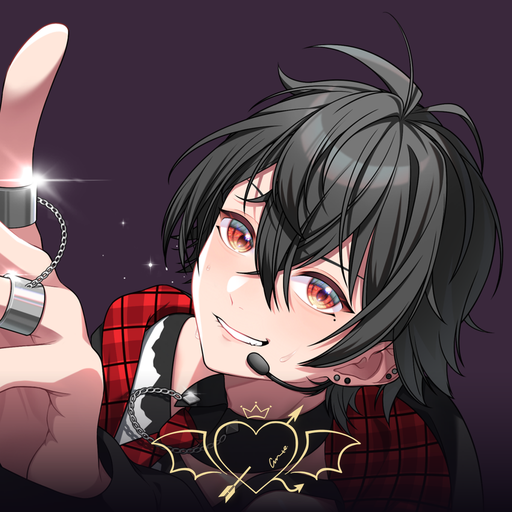
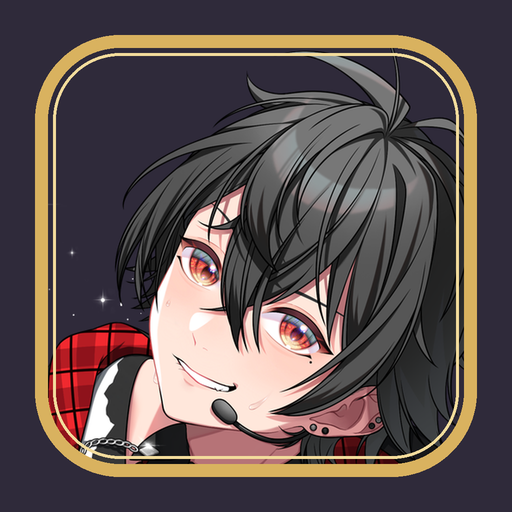
アイコンを金フレーム版に戻し、枠を丸角二重線で整える
Claude-Session: https://claude.ai/code/session_01Q8hdMR51joEyXxJTgwJaSg

diff --git a/404.html b/404.html
@@ -27,13 +27,13 @@
 <link rel="preconnect" href="https://fonts.gstatic.com" crossorigin>
 <link href="https://fonts.googleapis.com/css2?family=Dela+Gothic+One&family=M+PLUS+Rounded+1c:wght@500;700;800&family=Cinzel+Decorative:wght@700&display=swap" rel="stylesheet">
 <script>try{if(sessionStorage.getItem('ptin')==='1')document.documentElement.classList.add('pt-in')}catch(e){}</script>
-<link rel="stylesheet" href="assets/site.css?v=20261014v">
+<link rel="stylesheet" href="assets/site.css?v=20261014w">
 </head>
 <body data-page="nf">
 
 <main id="main"><div class="pg"><div class="pghead"><div class="h"><small>404</small><h1>ページが見つかりません</h1></div></div>
 <div class="card" style="text-align:center"><p style="margin-bottom:14px">矢が外れちゃったみたい。ホームに戻ろう♡</p><a class="btn" href="index.html">ホームへ</a></div></div></main>
 
-<script src="assets/site.js?v=20261014v" defer></script>
+<script src="assets/site.js?v=20261014w" defer></script>
 </body>
 </html>

diff --git a/profile.html b/profile.html
@@ -27,7 +27,7 @@
 <link rel="preconnect" href="https://fonts.gstatic.com" crossorigin>
 <link href="https://fonts.googleapis.com/css2?family=Dela+Gothic+One&family=M+PLUS+Rounded+1c:wght@500;700;800&family=Cinzel+Decorative:wght@700&display=swap" rel="stylesheet">
 <script>try{if(sessionStorage.getItem('ptin')==='1')document.documentElement.classList.add('pt-in')}catch(e){}</script>
-<link rel="stylesheet" href="assets/site.css?v=20261014v">
+<link rel="stylesheet" href="assets/site.css?v=20261014w">
 </head>
 <body data-page="profile">
 
@@ -64,6 +64,6 @@
   </section>
 </div></main>
 
-<script src="assets/site.js?v=20261014v" defer></script>
+<script src="assets/site.js?v=20261014w" defer></script>
 </body>
 </html>

diff --git a/news.html b/news.html
@@ -27,7 +27,7 @@
 <link rel="preconnect" href="https://fonts.gstatic.com" crossorigin>
 <link href="https://fonts.googleapis.com/css2?family=Dela+Gothic+One&family=M+PLUS+Rounded+1c:wght@500;700;800&family=Cinzel+Decorative:wght@700&display=swap" rel="stylesheet">
 <script>try{if(sessionStorage.getItem('ptin')==='1')document.documentElement.classList.add('pt-in')}catch(e){}</script>
-<link rel="stylesheet" href="assets/site.css?v=20261014v">
+<link rel="stylesheet" href="assets/site.css?v=20261014w">
 </head>
 <body data-page="news">
 
@@ -51,6 +51,6 @@
   </section>
 </div></main>
 
-<script src="assets/site.js?v=20261014v" defer></script>
+<script src="assets/site.js?v=20261014w" defer></script>
 </body>
 </html>

diff --git a/schedule.html b/schedule.html
@@ -27,7 +27,7 @@
 <link rel="preconnect" href="https://fonts.gstatic.com" crossorigin>
 <link href="https://fonts.googleapis.com/css2?family=Dela+Gothic+One&family=M+PLUS+Rounded+1c:wght@500;700;800&family=Cinzel+Decorative:wght@700&display=swap" rel="stylesheet">
 <script>try{if(sessionStorage.getItem('ptin')==='1')document.documentElement.classList.add('pt-in')}catch(e){}</script>
-<link rel="stylesheet" href="assets/site.css?v=20261014v">
+<link rel="stylesheet" href="assets/site.css?v=20261014w">
 </head>
 <body data-page="schedule">
 
@@ -43,6 +43,6 @@
   </div>
 </div></main>
 
-<script src="assets/site.js?v=20261014v" defer></script>
+<script src="assets/site.js?v=20261014w" defer></script>
 </body>
 </html>

diff --git a/songs.html b/songs.html
@@ -27,7 +27,7 @@
 <link rel="preconnect" href="https://fonts.gstatic.com" crossorigin>
 <link href="https://fonts.googleapis.com/css2?family=Dela+Gothic+One&family=M+PLUS+Rounded+1c:wght@500;700;800&family=Cinzel+Decorative:wght@700&display=swap" rel="stylesheet">
 <script>try{if(sessionStorage.getItem('ptin')==='1')document.documentElement.classList.add('pt-in')}catch(e){}</script>
-<link rel="stylesheet" href="assets/site.css?v=20261014v">
+<link rel="stylesheet" href="assets/site.css?v=20261014w">
 </head>
 <body data-page="songs">
 
@@ -59,6 +59,6 @@
   </form>
 </div>
 
-<script src="assets/site.js?v=20261014v" defer></script>
+<script src="assets/site.js?v=20261014w" defer></script>
 </body>
 </html>

diff --git a/index.html b/index.html
@@ -27,7 +27,7 @@
 <link rel="preconnect" href="https://fonts.gstatic.com" crossorigin>
 <link href="https://fonts.googleapis.com/css2?family=Dela+Gothic+One&family=M+PLUS+Rounded+1c:wght@500;700;800&family=Cinzel+Decorative:wght@700&display=swap" rel="stylesheet">
 <script>try{if(sessionStorage.getItem('ptin')==='1')document.documentElement.classList.add('pt-in')}catch(e){}</script>
-<link rel="stylesheet" href="assets/site.css?v=20261014v">
+<link rel="stylesheet" href="assets/site.css?v=20261014w">
 </head>
 <body data-page="home">
 
@@ -98,6 +98,6 @@
 </div>
 </main>
 
-<script src="assets/site.js?v=20261014v" defer></script>
+<script src="assets/site.js?v=20261014w" defer></script>
 </body>
 </html>

diff --git a/assets/site.js b/assets/site.js
@@ -85,7 +85,7 @@ function transitions(){
 
 /* ---------- 見出しの飾り（矢の刺さるハート） ---------- */
 var ORN='<img class="orn" src="img/logo-gold.png" alt="" width="900" height="438" loading="lazy">';
-var VER='20261014v';
+var VER='20261014w';
 function autoUpdate(){
   function chk(){try{fetch('version.json?t='+Date.now(),{cache:'no-store'}).then(function(r){return r.ok?r.json():null;}).then(function(j){
     if(!j||!j.v||j.v===VER)return;var k='verTry';if(ss(k)===j.v)return;ss(k,j.v);
